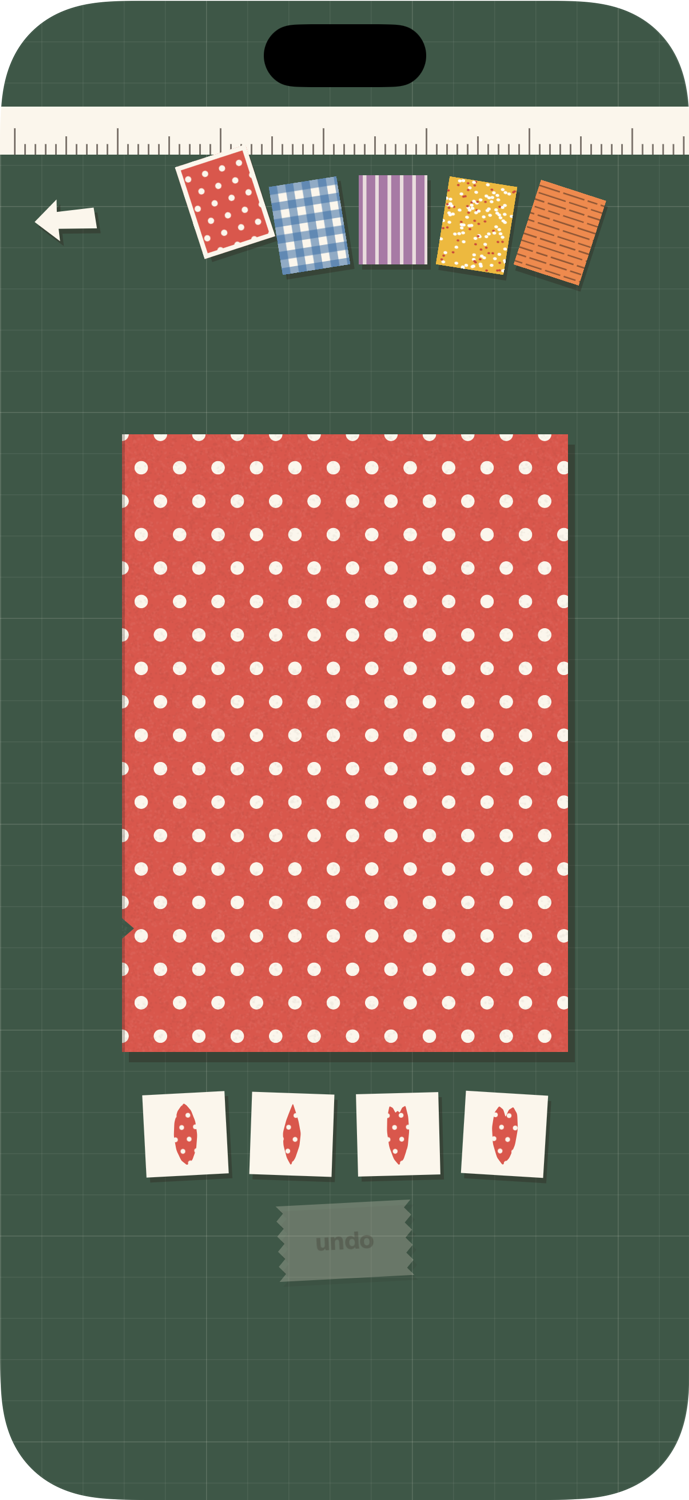
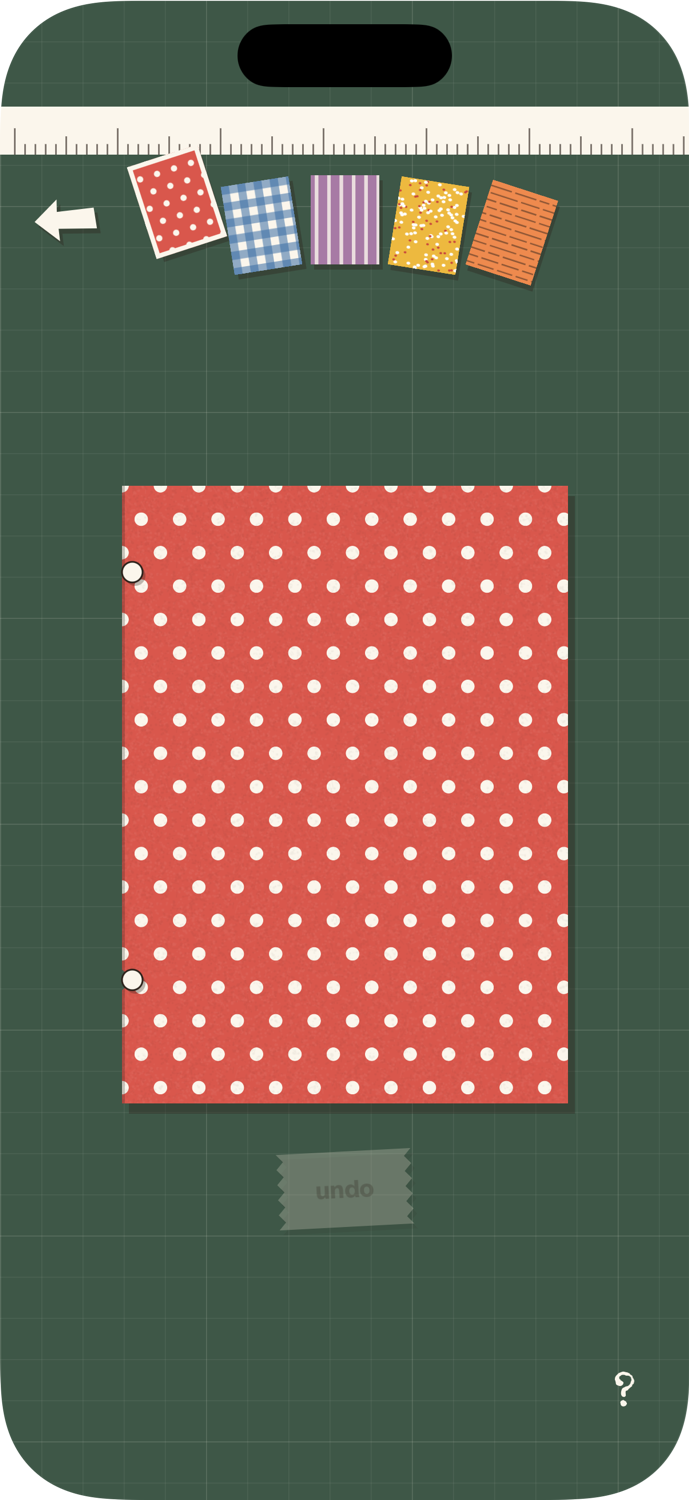
updated screens

diff --git a/flower/Cut/CutView.swift b/flower/Cut/CutView.swift
@@ -220,15 +220,13 @@ struct CutView: View {
             .padding(.top, 8)
             Spacer()
             sheet
-            PresetTiles(paper: paper) { unfold($0) }
-                .padding(.top, 24)
             HStack(spacing: 24) {
                 UndoTab(isEnabled: !cut.strokes.isEmpty, onUndo: { cut.undo() }, onClear: { cut.clear() })
                 if let points = cut.petalPoints {
                     TicketButton("cut") { unfold(points) }
                 }
             }
-            .padding(.top, 16)
+            .padding(.top, 28)
             Spacer()
         }
         .background {
@@ -306,6 +304,11 @@ struct CutView: View {
         .accessibilityElement(children: .ignore)
         .accessibilityLabel("folded \(paper.rawValue) paper")
         .accessibilityHint(CutGuide.spokenHint)
+        // Cutting needs a finger on the screen; with VoiceOver, a ready-made petal
+        // gets you to the same flower without drawing.
+        .accessibilityAction(named: "use a ready-made petal") {
+            unfold(Petal.sampleShapes.randomElement() ?? Petal.sampleShapes[0])
+        }
         .gesture(
             DragGesture(minimumDistance: 0)
                 .onChanged { value in
@@ -428,42 +431,6 @@ struct PaperFan: View {
             }
         }
         .animation(reduceMotion ? nil : .easeOut(duration: 0.18), value: selection)
-    }
-}
-
-/// Four ready-made petals as small cut-paper tiles. Tapping one skips drawing and
-/// goes straight to the unfold, so the flow works without a finger cut (and with VoiceOver).
-private struct PresetTiles: View {
-    let paper: Paper
-    var onPick: ([[Double]]) -> Void
-
-    private static let presets: [(name: String, shape: [[Double]])] = [
-        ("rounded", Petal.sampleShapes[0]),
-        ("pointed", Petal.sampleShapes[1]),
-        ("notched", Petal.sampleShapes[2]),
-        ("heart", Petal.sampleShapes[4]),
-    ]
-    /// Each tile sits a little crooked, as if stuck down by hand.
-    private static let tilts: [Double] = [-3, 2, -1.5, 3.5]
-
-    var body: some View {
-        HStack(spacing: 14) {
-            ForEach(Array(Self.presets.enumerated()), id: \.element.name) { index, preset in
-                Button { onPick(preset.shape) } label: {
-                    PaperFill(paper: paper, scale: 5)
-                        .clipShape(PetalPath(points: preset.shape))
-                        .padding(6)
-                        .frame(width: 48, height: 48)
-                        .background {
-                            Rectangle().fill(Color.ink.opacity(0.35)).offset(x: 2, y: 3)
-                            Rectangle().fill(Color.cream)
-                        }
-                }
-                .buttonStyle(.plain)
-                .rotationEffect(.degrees(Self.tilts[index]))
-                .accessibilityLabel("\(preset.name) petal")
-            }
-        }
     }
 }
 
@@ -819,6 +786,14 @@ private struct Ruler: View {
 
 #Preview {
     CutView(owner: "a", paper: .dots, onBack: {}, onPlant: { _ in })
+}
+
+#Preview("after the how-to") {
+    // As it looks once the how-to cards have been seen.
+    let defaults = UserDefaults(suiteName: "preview-how-to-seen") ?? .standard
+    defaults.set(true, forKey: "hasSeenHowToCut")
+    return CutView(owner: "a", paper: .dots, onBack: {}, onPlant: { _ in })
+        .defaultAppStorage(defaults)
 }
 
 #Preview("cut in progress") {

diff --git a/flower/Cut/HowToCut.swift b/flower/Cut/HowToCut.swift
@@ -41,8 +41,7 @@ struct HowToCut: View {
             Card(title: "Oops?",
                  lines: ["\(tap) undo to take back the last bit.",
                          isMac ? "Let go too soon? Click the end of the line and keep going."
-                               : "Lifted your finger? Put it back on the end of the line and keep going.",
-                         "No time to cut? \(tap) a ready-made petal."]),
+                               : "Lifted your finger? Put it back on the end of the line and keep going."]),
             Card(title: "Make it yours",
                  lines: ["When it's cut, \(tap.lowercased()) cut.",
                          "Edit the details, then \(tap.lowercased()) plant it."]),
@@ -170,22 +169,24 @@ struct HowToCut: View {
                 }
             }
         case 4:
-            // Undo, and the ready-made petals.
-            VStack(spacing: 18) {
-                TapeLabel(text: "undo", tilt: -3)
-                HStack(spacing: 10) {
-                    ForEach([0, 1, 2, 4], id: \.self) { shape in
-                        PaperFill(paper: .dots, scale: 4)
-                            .clipShape(PetalPath(points: Petal.sampleShapes[shape]))
-                            .padding(5)
-                            .frame(width: 40, height: 40)
-                            .background {
-                                Rectangle().fill(Color.ink.opacity(0.3)).offset(x: 2, y: 2)
-                                Rectangle().fill(Color.wall)
-                            }
-                            .rotationEffect(.degrees([-3, 2, -1.5, 3.5][min(shape, 3)]))
+            // Undo, next to a cut that stopped short, with its dashed way back to the fold.
+            HStack(spacing: 24) {
+                ZStack(alignment: .topLeading) {
+                    MiniSheet(size: sheet)
+                    Path { path in
+                        path.move(to: CGPoint(x: 0, y: sheet.height * 0.8))
+                        path.addQuadCurve(to: CGPoint(x: sheet.width * 0.5, y: sheet.height * 0.42),
+                                          control: CGPoint(x: sheet.width * 0.5, y: sheet.height * 0.75))
                     }
+                    .stroke(Color.ink, style: StrokeStyle(lineWidth: 2, lineCap: .round))
+                    Path { path in
+                        path.move(to: CGPoint(x: sheet.width * 0.5, y: sheet.height * 0.42))
+                        path.addLine(to: CGPoint(x: 0, y: sheet.height * 0.42))
+                    }
+                    .stroke(Color.ink.opacity(0.35), style: StrokeStyle(lineWidth: 1.5, dash: [4, 4]))
                 }
+                .frame(width: sheet.width, height: sheet.height)
+                TapeLabel(text: "undo", tilt: -3)
             }
         default:
             // A finished flower and its "plant it" ticket.

diff --git a/docs/HOW-TO.md b/docs/HOW-TO.md
@@ -46,31 +46,35 @@ This is your window! Every friend has a flower in a pot, with their name underne
 
 ## 5. Pick your paper
 
+The very first time you tap **cut**, a few little cards show you how it all works. Tap **next** to go through them, or the **×** in the corner to skip.
+
+<img src="how-to/5-first-time.png" width="240" alt="A how-to card in the middle of the screen: Pick your paper, with a next button and an × in the corner">
+
 Tap one of the papers at the top. Red dots? Blue checks? You pick!
 
-The big sheet is your paper, folded in half. **The left edge is the fold.**
+The big sheet is your paper, folded in half. **The left edge is the fold.** See the two little white dots on it? That's where you start and finish.
 
-Don't want to cut? Tap one of the four little petals under the paper. That makes a flower straight away.
-
-<img src="how-to/5-paper.png" width="240" alt="The cutting screen: five papers at the top, a big red dotty sheet, and four small petal tiles below it">
+<img src="how-to/5-paper.png" width="240" alt="The cutting screen: five papers at the top, a big red dotty sheet with two dots on its left edge, undo, and a ? in the bottom corner">
 
 ---
 
 ## 6. Cut half a petal
 
-1. Put your finger on the **left edge** of the paper.
+1. Put your finger on the **bottom dot**.
 2. Draw a bump out to the right, like half a heart or half a leaf.
-3. Come back to the **left edge**.
-
-The first time you get here, a little knife shows you how: it starts at the dot at the bottom of the fold, goes out and around, and ends at the dot at the top. It also circles the tiny flower in the top corner: that's the preview of your flower. Want to see it all again? Tap the **?** in the bottom corner.
+3. Come back to the **top dot**.
 
 The knife cuts a little bit above your finger, so you can always see the line.
 
-While you cut, a **tiny flower** in the top corner shows what your flower will look like.
+While you cut, a **tiny flower** in the top corner shows what your flower will look like. That's the preview!
+
+Forgot how? Tap the **?** in the bottom corner. A little knife shows you the cut, and the preview gets circled.
 
 Oops? Tap **undo**. Lifted your finger too soon? Put it back on the end of your line and keep going.
 
 When you're done, tap **cut**.
+
+On a Mac it's the same, but you drag with the mouse instead of your finger. The preview sits next to the **cut** button.
 
 <img src="how-to/6-cutting.png" width="240" alt="Half a petal being cut on blue checked paper, and a tiny flower in the corner">
 
